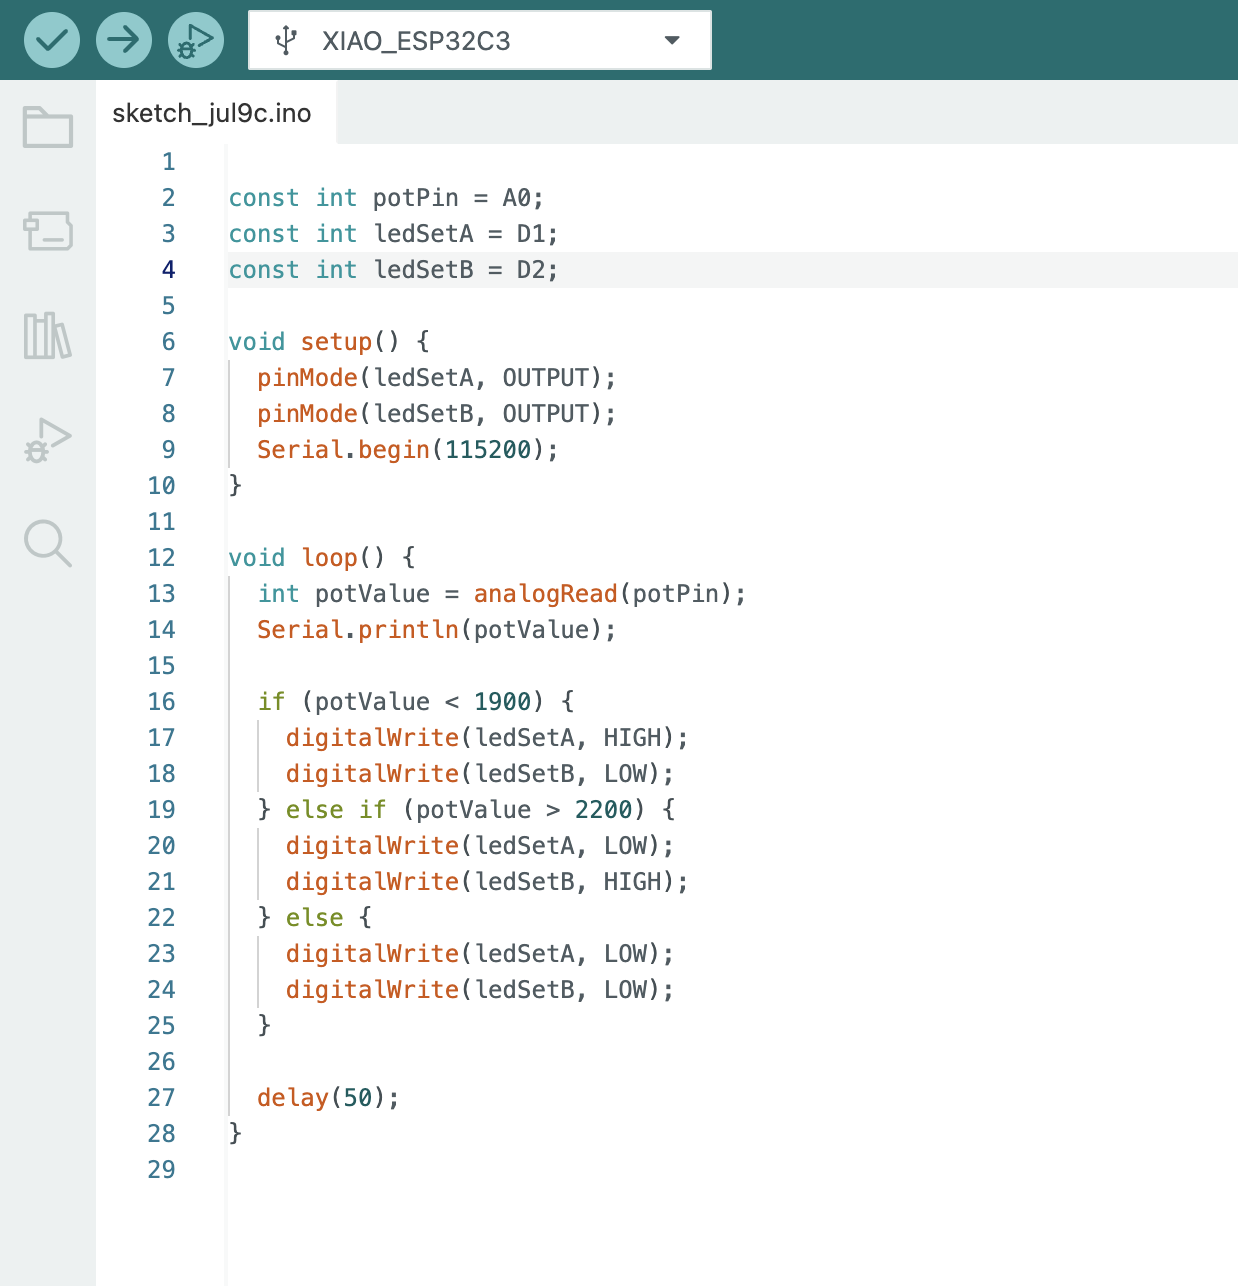
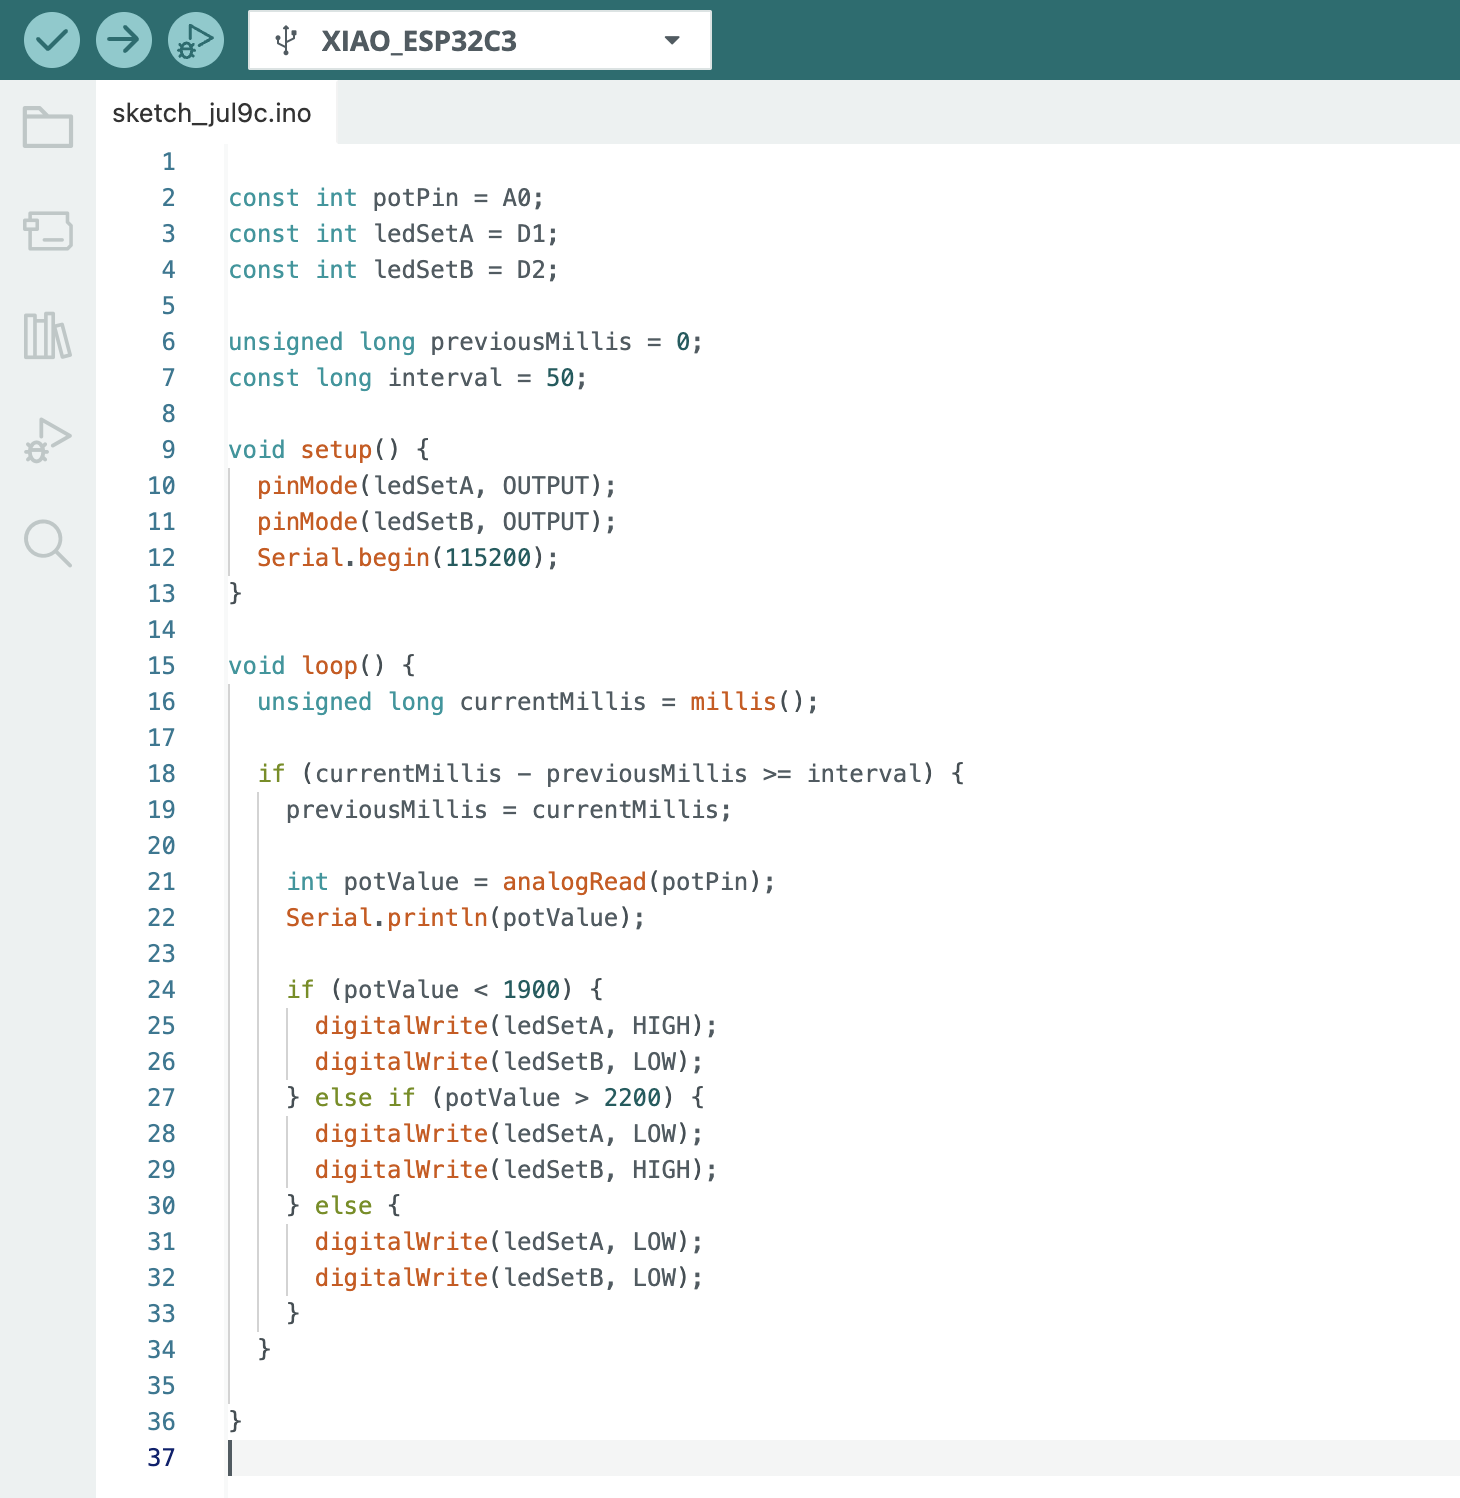
change

diff --git a/04_microcontroller/index.html b/04_microcontroller/index.html
@@ -59,8 +59,58 @@
     <br>
     <br>
 
-<h4> I coded the microcontroller to read the potentiometer value, and if the value was greater than 2200, it would supply power to one set of LED's (Pin D1) and if the potentiometer value was less than 1900, it would supply power to the other set of LED's (Pin D2)  </h4>
-<img style="height: 500px; width: 500px;" src="./code.jpg" alt=" My Code">
+<h4> I coded the microcontroller to read the potentiometer value, and if the value was greater than 2200, it would supply power to one set of LED's (Pin D1) and if the potentiometer value was less than 1900, it would supply power to the other set of LED's (Pin D2). </h4>
+<!DOCTYPE html>
+<html>
+<head>
+  <meta charset="UTF-8">
+</head>
+
+<body>
+  <h4>Arduino Potentiometer + LED Control</h4>
+
+  <p>This sketch reads a potentiometer and lights up different LEDs depending on the value, using <code>millis()</code> instead of <code>delay()</code> for non-blocking timing.</p>
+
+  <pre><code>
+const int potPin = A0;
+const int ledSetA = D1;
+const int ledSetB = D2;
+
+unsigned long previousMillis = 0;
+const long interval = 50; // Check every 50 ms
+
+void setup() {
+  pinMode(ledSetA, OUTPUT);
+  pinMode(ledSetB, OUTPUT);
+  Serial.begin(115200);
+}
+
+void loop() {
+  unsigned long currentMillis = millis();
+
+  if (currentMillis - previousMillis >= interval) {
+    previousMillis = currentMillis;
+
+    int potValue = analogRead(potPin);
+    Serial.println(potValue);
+
+    if (potValue < 1900) {
+      digitalWrite(ledSetA, HIGH);
+      digitalWrite(ledSetB, LOW);
+    } else if (potValue > 2200) {
+      digitalWrite(ledSetA, LOW);
+      digitalWrite(ledSetB, HIGH);
+    } else {
+      digitalWrite(ledSetA, LOW);
+      digitalWrite(ledSetB, LOW);
+    }
+  }
+}
+  </code></pre>
+
+</body>
+</html>
+
 <h4> the next step was to actually build the circuit, for this I used 1 potentiometer, 19 wires, 16 LED's and 4 resistors. I connected D1 to one set of LED's and D2 to the other set of LED's, making sure both were also connected to ground. After uploading my code and testing, it turned out just as I expected!  </h4>
 <br>
 <img style="height: 500px; width: 300px;" src="./angleview.jpg" alt="circuit view">
